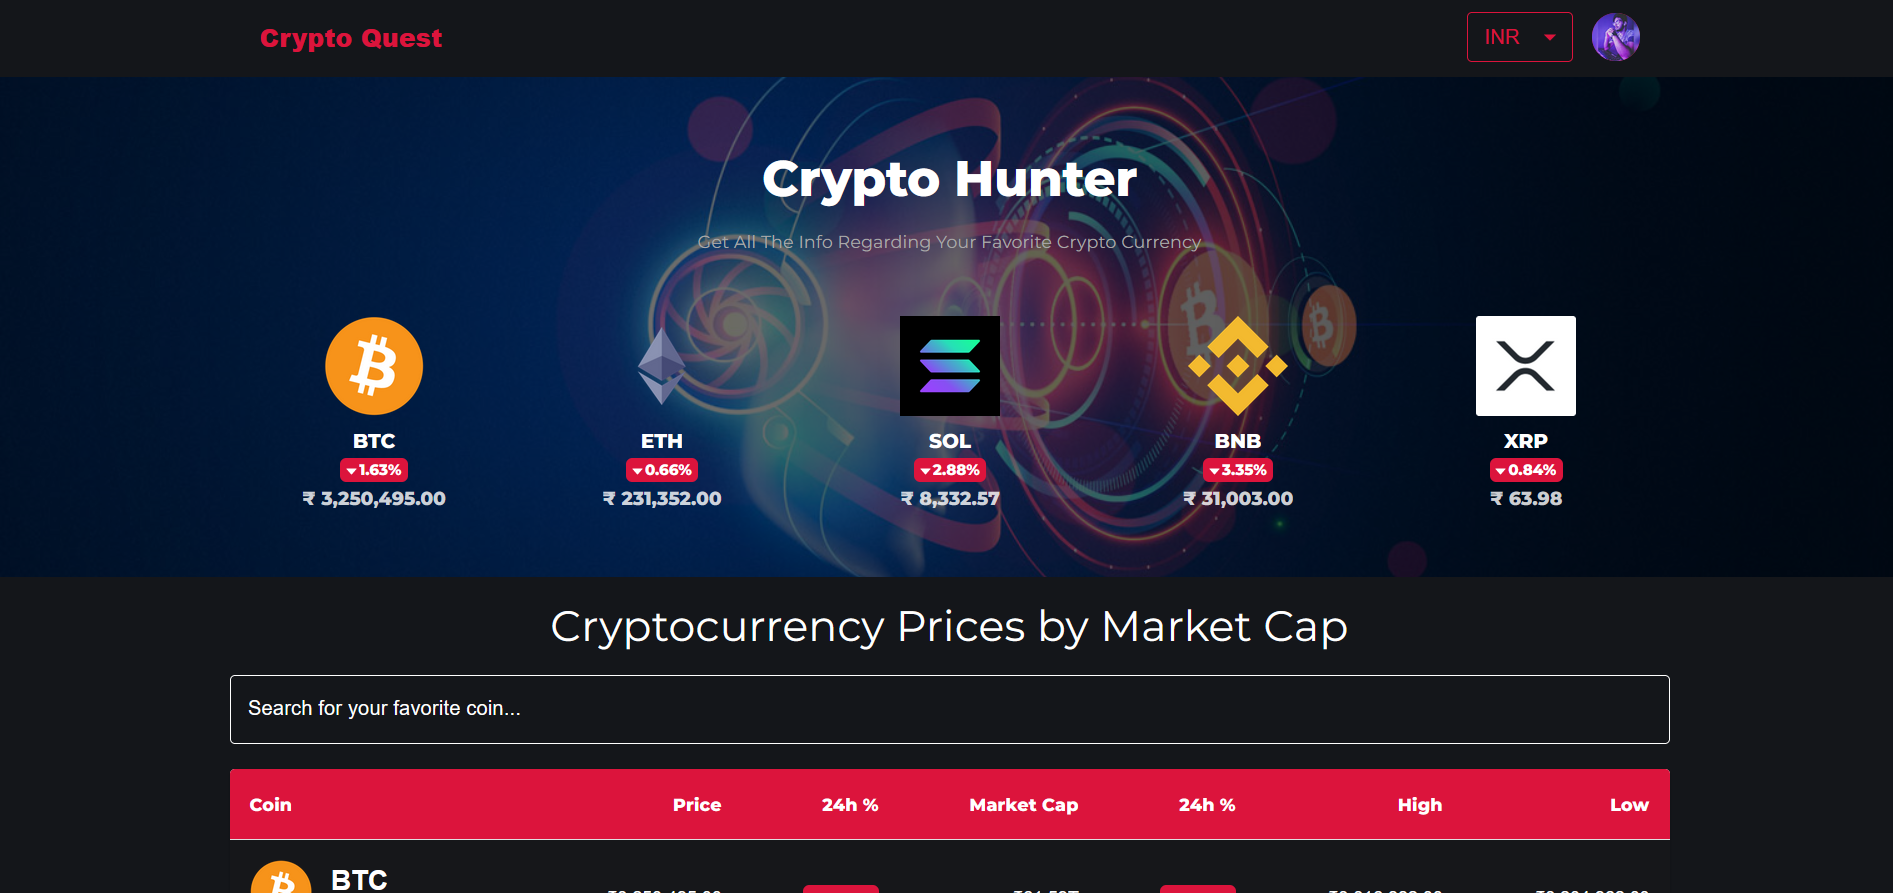
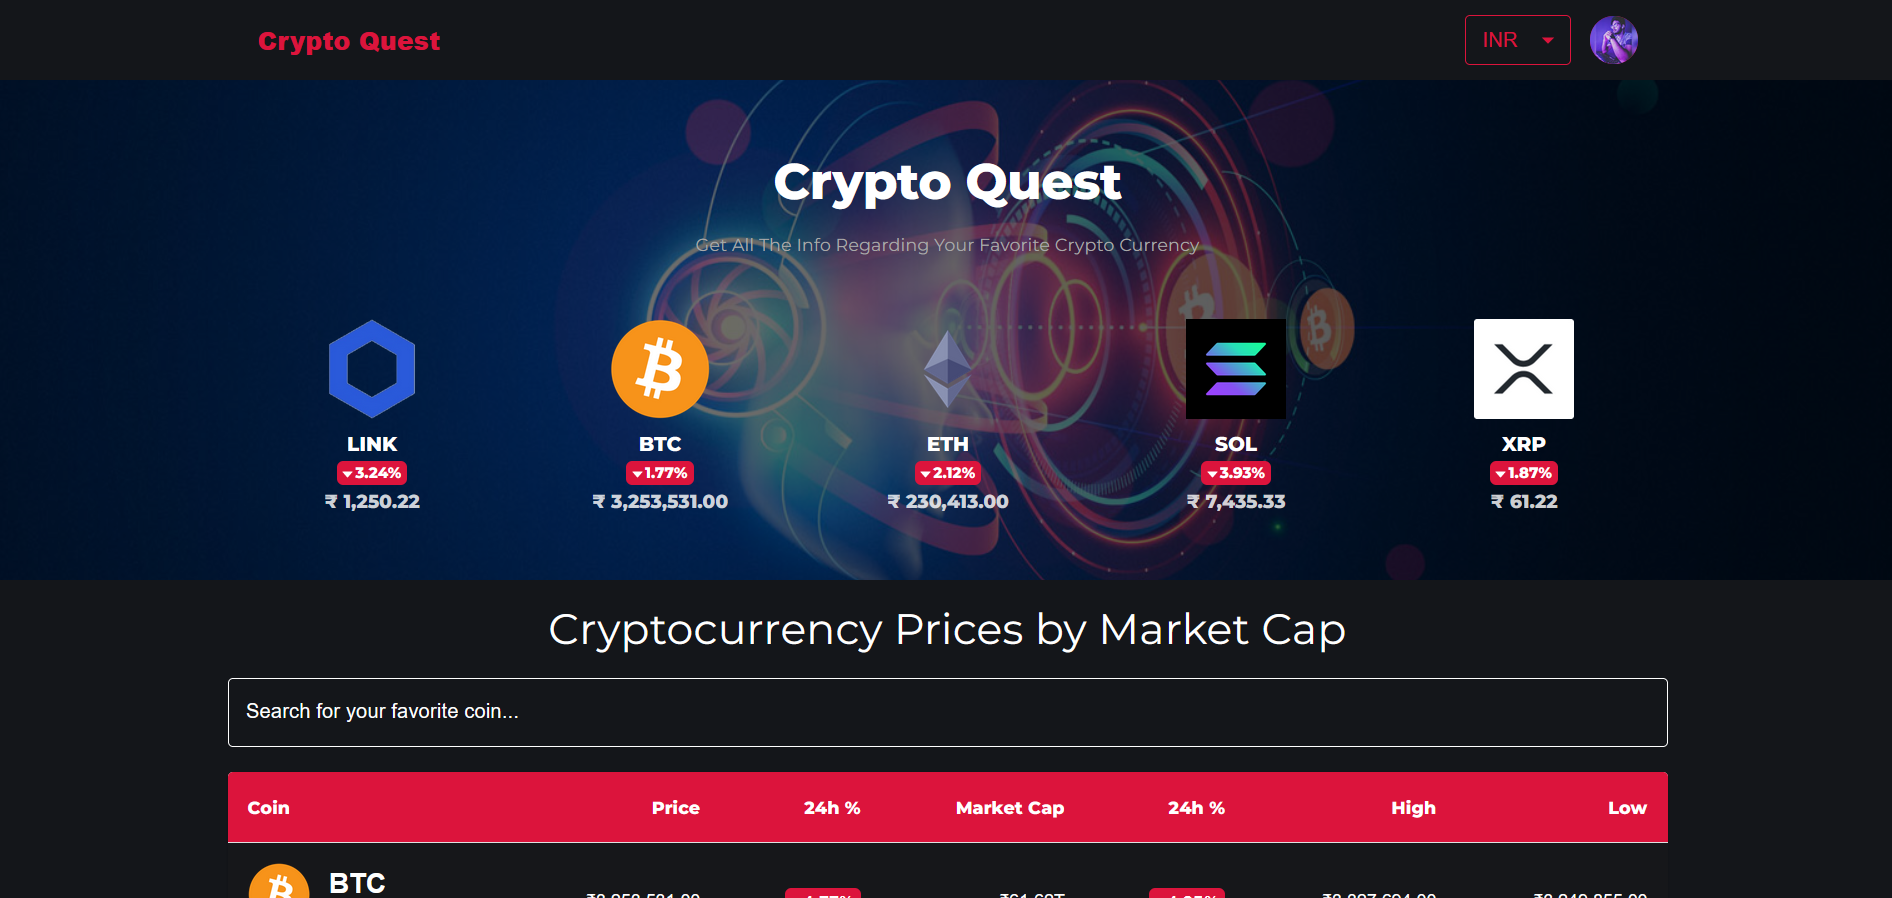
Pushed changes

diff --git a/src/components/Banner/Banner.tsx b/src/components/Banner/Banner.tsx
@@ -45,7 +45,7 @@ const Banner = () => {
             }}
             className="mainHeading"
           >
-            Crypto Hunter
+            Crypto Quest
           </Typography>
           <Typography
             variant="subtitle2"
